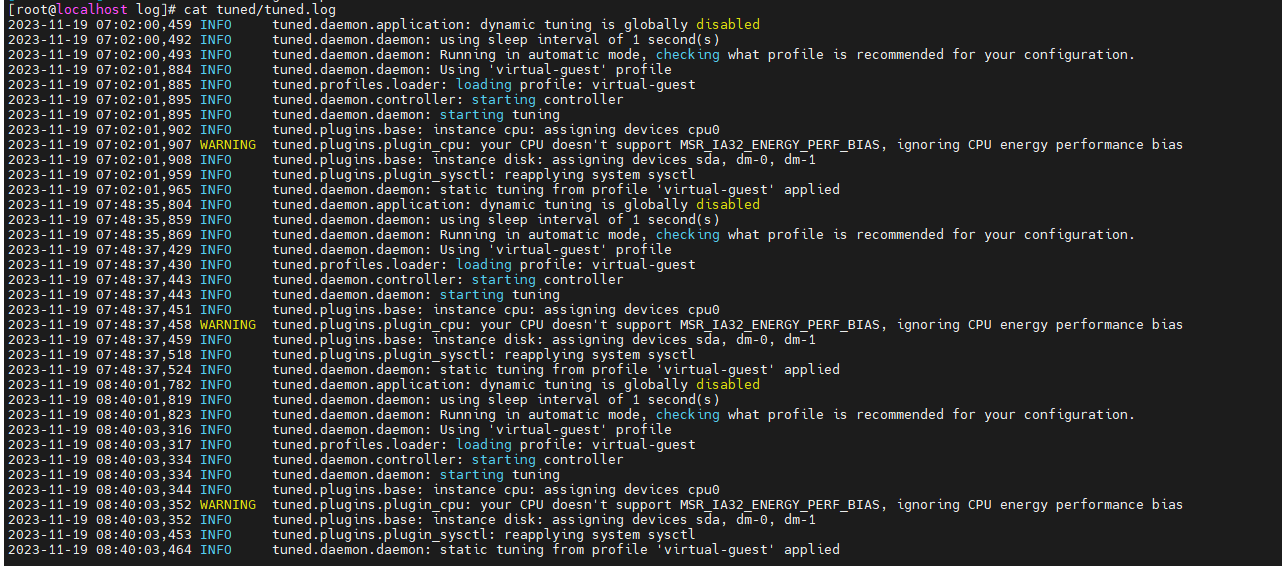
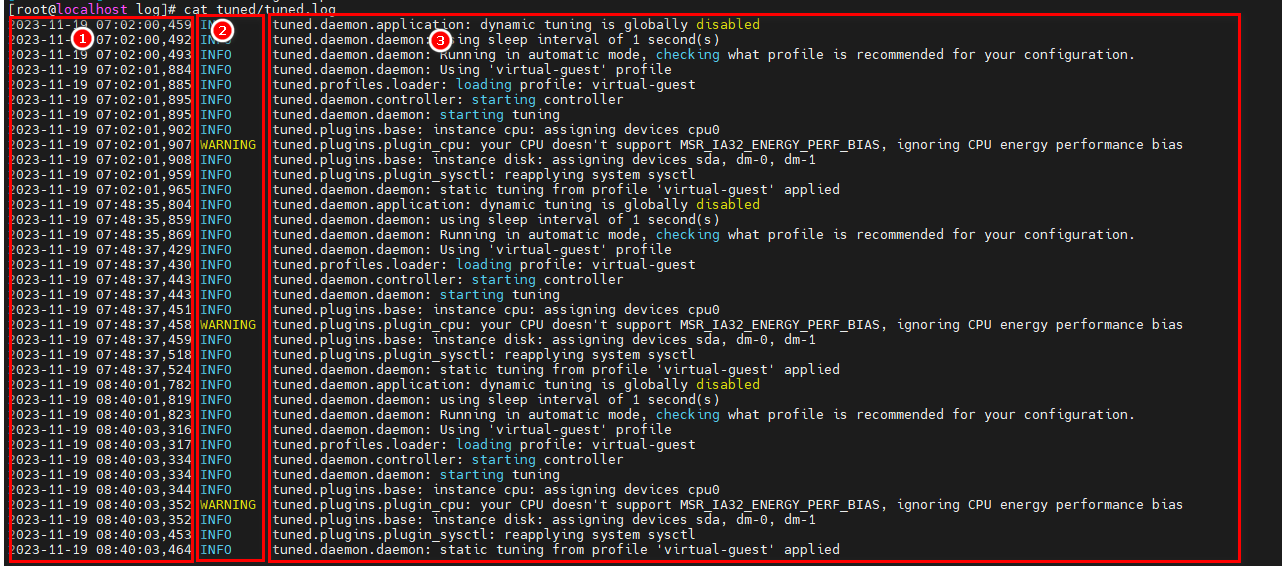
update

diff --git a/thuctap/linux-profession/11.varlog.md b/thuctap/linux-profession/11.varlog.md
@@ -97,6 +97,11 @@
 - chứa thông tin các gói được ghi lại khi cài đặt bằng yum
 - khắc phục sự cố liên quan đến cài đặt phần mềm
 
+  ![Alt](/thuctap/anh/Screenshot_567.png)
+  - 1: thời gian sinh ra log
+  - 2: công việc mà log này ghi nhận
+  - 3: Nội dung chi tiết thực hiện được ghi vào log
+
 ## 2.7 `/var/log//maillog`
 - lưu trữ các thông tin từ máy chủ mail đang chạy trên hệ thống
 - file log này sẽ ghi lại tất cả các email đã được gửi hoặc nhận trong một khoảng thời gian cụ thể
@@ -157,6 +162,9 @@
   - Các cảnh báo hoặc lỗi
 
     ![Alt](/thuctap/anh/Screenshot_565.png)
+    - 1: thời gian sinh ra log
+    - 2: Mức độ nghiêm trọng của log
+    - 3: Nội dung chi tiết của log
 
 ## 2.13 `/var/log/anaconda`
 - thường chứa nhiều tệp nhật ký liên quan đến quá trình cài đặt hệ thống.
@@ -164,12 +172,18 @@
   - anaconda.log: Là tệp chính chứa thông tin chi tiết về quá trình cài đặt, cấu hình phần cứng, và các bước quan trọng khác.
   - program.log: Ghi lại thông tin về các chương trình được chạy trong quá trình cài đặt.
   - storage.log: Ghi lại thông tin về quá trình quản lý và phân vùng ổ đĩa.
-  - syslog: Chứa thông điệp từ hệ thống, bao gồm các thông tin liên quan đến quá trình khởi động.
+  -  syslog: Chứa thông điệp từ hệ thống, bao gồm các thông tin liên quan đến quá trình khởi động.
   - X.log: Ghi lại thông tin về cấu hình và lỗi liên quan đến giao diện đồ họa X Window System (nếu có).
   - ifcfg.log: Ghi lại thông tin về cấu hình các thiết bị mạng.
   - yum.log: Chứa thông tin về quá trình cài đặt gói từ kho lưu trữ YUM.
 
  ![Alt](/thuctap/anh/Screenshot_566.png)
+ ![Alt](/thuctap/anh/Screenshot_568.png)
+ ![Alt](/thuctap/anh/Screenshot_569.png)
+ ![Alt](/thuctap/anh/Screenshot_570.png)
+ ![Alt](/thuctap/anh/Screenshot_571.png)
+ ![Alt](/thuctap/anh/Screenshot_572.png)
+
 ## 2.14 log sinh ra khi  tải dịch vụ về
 - Do khi ta tải các service về thì sẽ sinh ra file log trên hệ thống và nó được lưu ra các file log riêng
 - Một số dịch vụ ta có thể quan tâm
@@ -183,6 +197,40 @@
        -  bao gồm các vấn đề về bộ nhớ và các lỗi liên quan đến hệ thống khác
 
  - `/var/log/mariadb`:lưu lại log liên quan đến dịch vụ về quản lý cơ sở dữ liệu
+
+ ![Alt](/thuctap/anh/Screenshot_573.png)
+ ![Alt](/thuctap/anh/Screenshot_574.png)
+ - 1: IP máy client
+ - 2:Thời gian sinh ra log
+ - 3: phương thức truyền file
+ - 4: status code
+ - 5:Kích thước 
+ - 6: cung cấp trang mà khách truy cập
+ - 7: Thông tin nhận dạng mà máy client báo về 
+
+  ![Alt](/thuctap/anh/Screenshot_575.png)
+  - 1: thời gian
+  - 2: modul tạo ra thông diệp
+  - 3:Process ID
+  - 4: thông báo lỗi
+
+  ![Alt](/thuctap/anh/Screenshot_576.png)
+
+|status code|Nội dung|
+|-----------|--------|
+|200 OK| yêu cầu đã được chấp nhận và xử lý thành công|
+|201 Created|Yêu cầu đã được tiếp nhận để xử lý nhưng chưa hoàn thành|
+|202 Accepted|Yêu cầu đã được tiếp nhận nhưng chưa xủ lý|
+|301 Moved Permanently| Bạn đang truy cập vào URL cũ hãy truy cập vào URL mới|
+|400 Bad Request|Server không thể xử lý hoặc sẽ không xử lý các Request lỗi của phía client (ví dụ Request có cú pháp sai...)|
+|401 Unauthorized| Bạn đang truy cập page được bảo vệ mà không cung cấp thông tin chính xác|
+|403 Forbidden| Bạn đã login được nhưng không có quyền truy cập vào nguồn tài nguyên này|
+|404 Not Found| Tài nguyên không được tìm thấy|
+|500 Internal Server Error|Đã xảy ra lỗi trên máy chủ của trang web|
+|502 Bad Gateway|Bạn đã cố truy cập 1 trang web nhưng 1 máy chủ nhận được 1 phản hồi không hợp lệ từ 1 máy chủ khác cần liên lạc để thực hiện yêu cầu|
+|503 Service Unavailable| Máy chủ ngưng hoạt động hoặc quá tải|
+|504 Gateway Timeout| máy chủ không nhận được phản hồi kịp thời từ một máy chủ khác mà nó đang truy cập trong khi cố gắng tải trang web|
+
 # Tài liệu tham khảo
 
 https://blogd.net/linux/cac-file-log-quan-trong-tren-linux/
